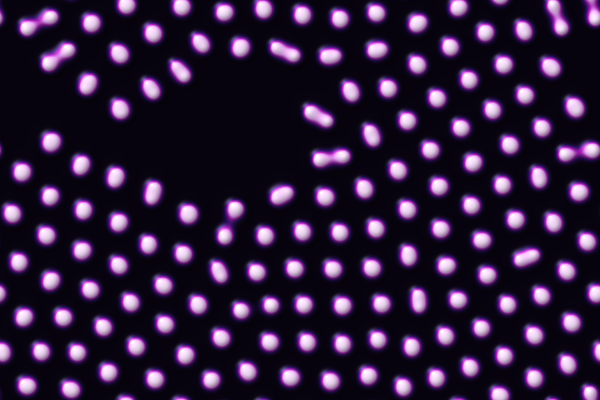
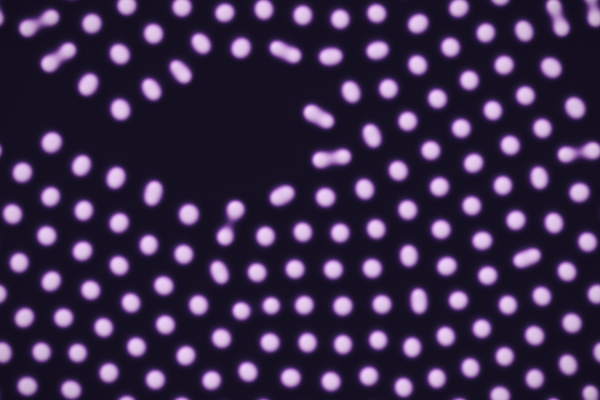
Make the dish easier on the eyes
Dense, thin, high-contrast stripes with a hard specular glint read as
glare. Soften the look without touching the simulation:

- redesign palettes: tinted backgrounds, no pure black or white
- gentle diffuse relief, no dark rims, faint palette-tinted sheen
- wider value ramp so shapes fade into the background
- subtle vignette
- default resolution 0.35 for larger, calmer patterns
- headless renderer and gallery updated to match

diff --git a/scripts/render.ts b/scripts/render.ts
@@ -22,7 +22,7 @@ const { values: args } = parseArgs({
     steps: { type: "string", default: "5000" },
     feed: { type: "string" },
     kill: { type: "string" },
-    shade: { type: "string", default: "0.8" },
+    shade: { type: "string", default: "0.6" },
     out: { type: "string", default: "petri.png" },
     help: { type: "boolean", short: "h" },
   },
@@ -91,6 +91,7 @@ const smooth = (e0: number, e1: number, x: number) => {
 };
 
 const L = [-0.5, -0.6, 0.65];
+const top = sampleRamp(palette, 1);
 const ln = Math.hypot(...L);
 const rgb = new Uint8Array(W * H * 3);
 for (let py = 0; py < H; py++) {
@@ -98,18 +99,20 @@ for (let py = 0; py < H; py++) {
     const x = (px + 0.5) / scale - 0.5;
     const y = (py + 0.5) / scale - 0.5;
     const val = field(x, y);
-    let [r, g, b] = sampleRamp(palette, smooth(0.08, 0.62, val));
+    let [r, g, b] = sampleRamp(palette, smooth(0.05, 0.55, val));
     const dx = field(x + 1, y) - field(x - 1, y);
     const dy = field(x, y + 1) - field(x, y - 1);
-    const nx = -dx * 6;
-    const ny = -dy * 6;
+    const nx = -dx * 4;
+    const ny = -dy * 4;
     const nl = Math.hypot(nx, ny, 1);
     const light = (nx * L[0] + ny * L[1] + L[2]) / (nl * ln);
-    const k = 1 + shade * (0.55 + 0.6 * light - 1);
-    const spec = shade * 0.35 * Math.pow(Math.max(light, 0), 24);
-    r = r * k + spec;
-    g = g * k + spec;
-    b = b * k + spec;
+    const diffuse = Math.min(1.12, Math.max(0.72, 0.78 + 0.32 * light));
+    const k = 1 + shade * (diffuse - 1);
+    const sheen = shade * 0.07 * Math.pow(Math.max(light, 0), 6);
+    const vig = 1 - 0.2 * smooth(0.35, 0.85, Math.hypot(px / W - 0.5, (py / H - 0.5) * 0.85));
+    r = (r * k + sheen * top[0]) * vig;
+    g = (g * k + sheen * top[1]) * vig;
+    b = (b * k + sheen * top[2]) * vig;
     const o = (py * W + px) * 3;
     rgb[o] = Math.round(Math.min(1, Math.max(0, r)) * 255);
     rgb[o + 1] = Math.round(Math.min(1, Math.max(0, g)) * 255);

diff --git a/src/core/palettes.ts b/src/core/palettes.ts
@@ -4,14 +4,16 @@ export interface Palette {
   stops: readonly [string, string, string, string, string];
 }
 
+// Low-contrast by design: backgrounds are tinted rather than black and the brightest
+// stop stays well short of white, so dense patterns don't strobe or glare.
 export const PALETTES: readonly Palette[] = [
-  { id: "abyss", stops: ["#04060c", "#0b2a3c", "#1f8a8a", "#9fe7d0", "#ffffff"] },
-  { id: "ember", stops: ["#0a0302", "#3d0c02", "#c2410c", "#fbbf24", "#fff7e0"] },
-  { id: "orchid", stops: ["#07030f", "#2e1065", "#a21caf", "#f0abfc", "#fdf4ff"] },
-  { id: "toxic", stops: ["#020702", "#0f2e12", "#3f9b0b", "#c6f432", "#f7ffe0"] },
-  { id: "ice", stops: ["#f5f9ff", "#cfe3ff", "#6aa8ff", "#1d4ed8", "#0b1640"] },
-  { id: "paper", stops: ["#f4efe4", "#e6dcc6", "#a08c6c", "#3b3127", "#141010"] },
-  { id: "sunset", stops: ["#120318", "#5b1a4a", "#e2445c", "#ffa45b", "#ffe8a3"] },
+  { id: "abyss", stops: ["#0d1a24", "#12303d", "#2a6b70", "#6fb3a6", "#bfe3d4"] },
+  { id: "ember", stops: ["#1a0f0c", "#3a1a12", "#9a4a26", "#d98d4a", "#f0c89a"] },
+  { id: "orchid", stops: ["#150f22", "#2c1b47", "#6b3b8c", "#b27fc6", "#e5c9ee"] },
+  { id: "toxic", stops: ["#0f1610", "#1d3320", "#4a7a3c", "#95b866", "#d9e8b0"] },
+  { id: "ice", stops: ["#e9eef5", "#cdd9ea", "#8fa9cf", "#4f6fa6", "#2a3f6b"] },
+  { id: "paper", stops: ["#efe8da", "#ddd1bb", "#b09c7c", "#6e5c47", "#3d3229"] },
+  { id: "sunset", stops: ["#1c1020", "#3d1b38", "#8f3f57", "#d9826a", "#f4c9a0"] },
 ];
 
 export function paletteById(id: string): Palette | undefined {

diff --git a/src/gl/shaders.ts b/src/gl/shaders.ts
@@ -132,18 +132,25 @@ float val(vec2 uv) {
 
 void main() {
   float v = val(vUv);
-  // A-dominant regions sit near 0.0, dense B near ~0.7; stretch that range.
-  float t = smoothstep(0.08, 0.62, v);
+  // A-dominant regions sit near 0.0, dense B near ~0.5-0.7. A wide, gentle ramp lets
+  // shapes fade into the background instead of cutting a hard edge.
+  float t = smoothstep(0.05, 0.55, v);
   vec3 col = ramp(t);
 
-  // emboss lighting from the upper-left, sampled one field texel apart
+  // soft diffuse relief from the upper-left (shallow normals, no dark rims)
   vec2 e = 1.0 / uSize;
   float dx = val(vUv + vec2(e.x, 0.0)) - val(vUv - vec2(e.x, 0.0));
   float dy = val(vUv + vec2(0.0, e.y)) - val(vUv - vec2(0.0, e.y));
-  vec3 n = normalize(vec3(-dx * 6.0, -dy * 6.0, 1.0));
+  vec3 n = normalize(vec3(-dx * 4.0, -dy * 4.0, 1.0));
   float light = dot(n, normalize(vec3(-0.5, 0.6, 0.65)));
-  col *= mix(1.0, 0.55 + 0.6 * light, uShade);
-  col += uShade * 0.35 * pow(max(light, 0.0), 24.0); // specular glint
+  float diffuse = clamp(0.78 + 0.32 * light, 0.72, 1.12);
+  col *= mix(1.0, diffuse, uShade);
+  // faint sheen tinted by the palette's brightest stop rather than pure white
+  col += uShade * 0.07 * pow(max(light, 0.0), 6.0) * uStops[4];
+
+  // gentle vignette keeps the eye in the middle and calms the edges
+  float r = length((vUv - 0.5) * vec2(1.0, 0.85));
+  col *= mix(1.0, 0.8, smoothstep(0.35, 0.85, r));
 
   outColor = vec4(col, 1.0);
 }`;

diff --git a/src/core/state.ts b/src/core/state.ts
@@ -22,8 +22,8 @@ export const DEFAULTS: AppState = {
   seed: 1,
   speed: 14,
   brush: 18,
-  resolution: 0.5,
-  shade: 0.8,
+  resolution: 0.35,
+  shade: 0.6,
   map: false,
 };
 

diff --git a/README.md b/README.md
@@ -62,7 +62,7 @@ B eats A to make more of itself, A is fed in at rate **f**, and B dies off at ra
 - 🧬 **Nine species**: coral, mitosis, maze, spots, worms, holes, waves, chaos and u-skate. Press <kbd>1</kbd> to <kbd>9</kbd>.
 - 🗺 **Parameter map**: sweeps feed along Y and kill along X so every regime grows side by side, and one click picks the species under the cursor.
 - 🔤 **Grow a word**: type text and it gets planted in the dish as glyph outlines.
-- 🎨 **Seven stains** with a wet emboss shader for a 3D, under-the-microscope look.
+- 🎨 **Seven stains**: low-contrast palettes with soft relief shading, designed to be easy to stare at.
 - 🔗 **Linkable dishes**: chemistry, stain and seed live in the URL hash.
 - 📸 **Snapshots** to PNG, plus a zen mode (<kbd>H</kbd>) for screen recordings.
 - 🖥 **Headless renderer** for wallpapers and CI-friendly images.
@@ -141,7 +141,7 @@ test/         vitest suites
 - **Ping-pong float textures.** State lives in two `RGBA32F` framebuffers. Each step reads one and writes the other, and the speed slider sets how many steps run per frame.
 - **Toroidal world.** `REPEAT` sampling makes the dish wrap at the edges, so there are no hard boundaries.
 - **CPU twin.** `core/grayscott.ts` runs exactly the same stencil in TypeScript. That lets tests check real behaviour (coral spreads, high kill wipes out B, edges wrap) without a GPU.
-- **Fake depth.** The display pass treats the concentration as a height map, takes its gradient for a normal, and lights it, which gives the glossy, gel-like relief.
+- **Smooth upscaling and soft relief.** The grid is bicubic-upscaled to screen resolution, then treated as a height map and lit gently. Palettes avoid pure black and white so dense patterns don't glare.
 
 ## Scripts
 
